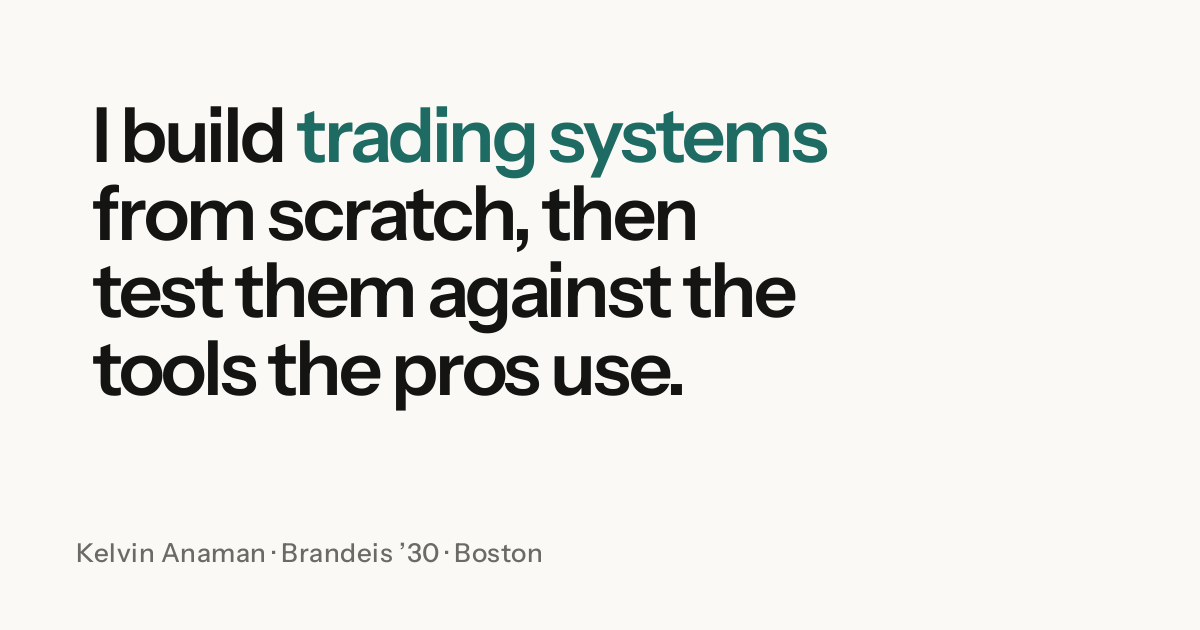
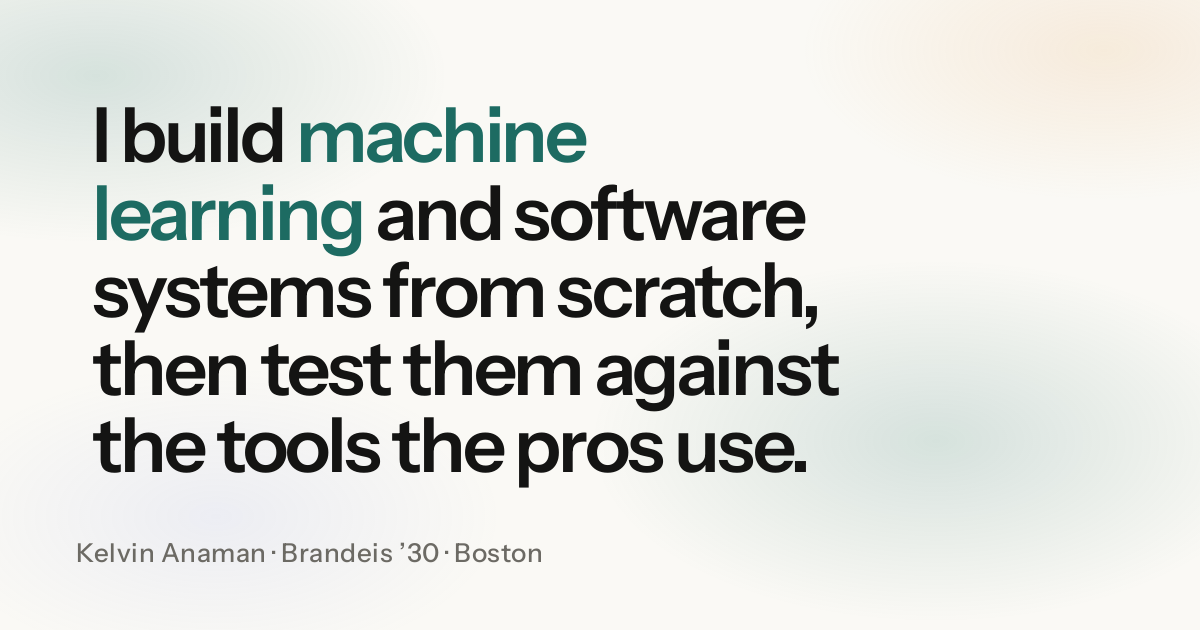
site: machine learning and software engineering lead

Changed region(s): [[0.0617, 0.1508, 0.8942, 0.8143], [0.0, 0.0302, 0.185, 0.2111], [0.8942, 0.0603, 0.925, 0.0905]]

diff --git a/index.html b/index.html
@@ -2,7 +2,7 @@
 <html lang="en">
 <head>
 <meta charset="utf-8">
-<meta http-equiv="Content-Security-Policy" content="default-src 'none'; script-src 'sha256-vEvKZrMhJJrsCAzyb3+XolhHF94AKOCTWLWjm1HHeUE='; style-src 'self' 'unsafe-inline' https://fonts.googleapis.com; font-src https://fonts.gstatic.com; img-src 'self' data:; media-src 'self'; connect-src https://api.github.com wss://advanced-trade-ws.coinbase.com; base-uri 'none'; form-action 'none'; object-src 'none'">
+<meta http-equiv="Content-Security-Policy" content="default-src 'none'; script-src 'sha256-t8ZcD9VdTclKdGf34t2W/fs2ITeBC9MadZGxUAhh/gM='; style-src 'self' 'unsafe-inline' https://fonts.googleapis.com; font-src https://fonts.gstatic.com; img-src 'self' data:; media-src 'self'; connect-src https://api.github.com wss://advanced-trade-ws.coinbase.com; base-uri 'none'; form-action 'none'; object-src 'none'">
 <meta name="referrer" content="strict-origin-when-cross-origin">
 <meta name="viewport" content="width=device-width, initial-scale=1, viewport-fit=cover">
 <meta name="theme-color" content="#faf9f5" media="(prefers-color-scheme: light)">
@@ -13,15 +13,15 @@
 <meta property="og:type" content="website">
 <meta property="og:site_name" content="Kelvin Anaman">
 <meta property="og:title" content="Kelvin Anaman">
-<meta property="og:description" content="Exchanges, option pricers and ML systems, built from scratch and measured against the tools professionals use.">
+<meta property="og:description" content="Machine learning and software systems, built from scratch and measured against the tools professionals use.">
 <meta property="og:url" content="https://anamankev.github.io/">
 <meta property="og:image" content="https://anamankev.github.io/img/og.png">
 <meta property="og:image:width" content="1200">
 <meta property="og:image:height" content="630">
-<meta property="og:image:alt" content="Kelvin Anaman: I build trading systems from scratch.">
+<meta property="og:image:alt" content="Kelvin Anaman: I build machine learning and software systems from scratch.">
 <meta name="twitter:card" content="summary_large_image">
 <title>Kelvin Anaman</title>
-<meta name="description" content="Kelvin Anaman studies quantitative economics, mathematics and computer science at Brandeis. He builds exchanges, option pricers and ML systems. Founder of Pulse Energies.">
+<meta name="description" content="Kelvin Anaman builds machine learning and software systems: recommenders, vector search, a crash-safe exchange and a trading terminal. Brandeis ’30, founder of Pulse Energies.">
 <link rel="preconnect" href="https://fonts.googleapis.com">
 <link rel="preconnect" href="https://fonts.gstatic.com" crossorigin>
 <link rel="stylesheet" href="https://fonts.googleapis.com/css2?family=Instrument+Sans:wght@400;500;600;700&family=IBM+Plex+Mono:wght@400;500;600&display=swap">
@@ -589,12 +589,12 @@ footer .base { grid-column: 1 / -1; display: flex; justify-content: space-betwee
   <div class="view" id="v-home">
     <div class="wrap">
       <section class="statement">
-        <h1>I build <span>trading systems</span> from scratch, then test them against the tools the pros use.</h1>
+        <h1>I build <span>machine learning</span> and software systems from scratch, then test them against the tools the pros use.</h1>
       </section>
       <section class="hero">
         <div>
           <div class="status"><i></i>Brandeis ’30 · Boston · Wien Scholar</div>
-          <p class="lede">I’m Kelvin Anaman. I study quantitative economics, math and CS at Brandeis. This summer I was a quant research intern on the Bank of Ghana’s GoldBod desk, and I run <a href="https://pulseenergies.com">Pulse Energies</a>, a grid forecasting startup.</p>
+          <p class="lede">I’m Kelvin Anaman. I study quantitative economics, math and CS at Brandeis, and I work across machine learning, software engineering and quantitative finance: recommenders and vector search, a crash-safe exchange in Rust, and a native trading terminal. I also run <a href="https://pulseenergies.com">Pulse Energies</a>, which forecasts grid load with machine learning, and this summer I was a quant research intern on the Bank of Ghana’s GoldBod desk.</p>
           <button class="cmdline" type="button" data-open-palette aria-label="Open the command line">
             <span class="prompt">&gt;</span>
             <span class="ph">Type a command, like <b>BRIER</b> or <b>EXP</b><span class="caret"></span></span>
@@ -602,7 +602,7 @@ footer .base { grid-column: 1 / -1; display: flex; justify-content: space-betwee
           </button>
           <div class="suggest"><span>This site runs on a command line, like my terminal Kestrel. Try</span>
             <button type="button" data-cmd="BRIER">BRIER</button>
-            <button type="button" data-cmd="BS">BS</button>
+            <button type="button" data-cmd="RECSYS">RECSYS</button>
             <button type="button" data-cmd="HNSW">HNSW</button>
             <button type="button" data-cmd="EXP">EXP</button>
           </div>
@@ -741,7 +741,7 @@ footer .base { grid-column: 1 / -1; display: flex; justify-content: space-betwee
         <div class="about-intro">
           <div>
             <p>I’m from Ghana and I live in Boston, where I study quantitative economics, mathematics and computer science at Brandeis as a Wien Scholar.</p>
-            <p>Most of my time goes into building things: trading systems, research code, and <a href="https://pulseenergies.com" style="color:var(--ink);text-decoration-color:var(--accent);text-underline-offset:3px">Pulse Energies</a>. I also love working with startup founders, building alongside them and advising them where I can.</p>
+            <p>Most of my time goes into building things: machine learning models, software systems, and <a href="https://pulseenergies.com" style="color:var(--ink);text-decoration-color:var(--accent);text-underline-offset:3px">Pulse Energies</a>. I also love working with startup founders, building alongside them and advising them where I can.</p>
             <div class="route-line" aria-label="From Ghana to Boston"><span class="flag" aria-hidden="true"><i></i><i></i><i></i><b>★</b></span><span>Ghana</span><span class="dash"></span><span>Boston</span></div>
           </div>
           <figure class="portrait"><img src="me.jpg" width="336" height="334" alt="Kelvin Anaman"></figure>
@@ -819,7 +819,7 @@ footer .base { grid-column: 1 / -1; display: flex; justify-content: space-betwee
 
 <footer>
   <div class="wrap">
-    <div><div class="fname">Kelvin Anaman</div><p style="margin:10px 0 0;max-width:26rem">Trading systems, research code and a grid forecasting startup. Brandeis ’30, Boston.</p></div>
+    <div><div class="fname">Kelvin Anaman</div><p style="margin:10px 0 0;max-width:26rem">Machine learning, software engineering and quantitative finance, plus a grid forecasting startup. Brandeis ’30, Boston.</p></div>
     <div><h4>Pages</h4><ul><li><a href="#experience">Experience</a></li><li><a href="#projects">Projects</a></li><li><a href="#writing">Writing</a></li><li><a href="#about">About</a></li><li><a href="#colophon">How this site is built</a></li></ul></div>
     <div><h4>Projects</h4><ul><li><a href="#brier">brier</a></li><li><a href="#hnsw-engine">hnsw-engine</a></li><li><a href="#options-pricing-engine">options-pricing-engine</a></li><li><a href="#kestrel">kestrel</a></li><li><a href="#two-stage-recsys">two-stage-recsys</a></li></ul></div>
     <div><h4>Contact</h4><ul><li><a href="mailto:kanaman@brandeis.edu">kanaman@brandeis.edu</a></li><li><a href="https://github.com/anamankev">GitHub</a></li><li><a href="https://www.linkedin.com/in/kelvin-anaman">LinkedIn</a></li></ul></div>
@@ -1045,20 +1045,22 @@ footer .base { grid-column: 1 / -1; display: flex; justify-content: space-betwee
   $("#ed").innerHTML =
     '<div class="ed-col">' + edProject(byId["kestrel"], true) + edPost(postById["killing-an-exchange"]) + '</div>' +
     '<div class="ed-col ed-center">' + edProject(byId["brier"], true, true) + '</div>' +
-    '<div class="ed-col">' + edPost(postById["ranker-made-it-worse"]) + edProject(byId["hnsw-engine"]) + edProject(byId["options-pricing-engine"]) + '</div>';
+    '<div class="ed-col">' + edPost(postById["ranker-made-it-worse"]) + edProject(byId["two-stage-recsys"]) + edProject(byId["hnsw-engine"]) + '</div>';
 
   /* home: focus areas, paged like a carousel */
   var GLYPH = {
     market: '<svg viewBox="0 0 48 48" fill="currentColor" aria-hidden="true"><rect x="6" y="8" width="16" height="5" rx="1"/><rect x="10" y="16" width="12" height="5" rx="1"/><rect x="14" y="24" width="8" height="5" rx="1"/><rect x="26" y="20" width="10" height="5" rx="1"/><rect x="26" y="28" width="16" height="5" rx="1"/><rect x="26" y="36" width="13" height="5" rx="1"/></svg>',
     search: '<svg viewBox="0 0 48 48" fill="none" stroke="currentColor" stroke-width="3" stroke-linecap="round" aria-hidden="true"><circle cx="10" cy="10" r="3.5" fill="currentColor"/><circle cx="36" cy="12" r="3.5" fill="currentColor"/><circle cx="22" cy="24" r="3.5" fill="currentColor"/><circle cx="10" cy="38" r="3.5" fill="currentColor"/><circle cx="38" cy="36" r="3.5" fill="currentColor"/><path d="M10 10L22 24L36 12M22 24L10 38M22 24L38 36"/></svg>',
     pricing: '<svg viewBox="0 0 48 48" fill="none" stroke="currentColor" stroke-width="3.2" stroke-linecap="round" aria-hidden="true"><path d="M5 40C18 39 24 34 30 22S38 8 43 7"/><path d="M5 40H43M5 8V40"/></svg>',
+    ml: '<svg viewBox="0 0 48 48" fill="none" stroke="currentColor" stroke-width="2.4" aria-hidden="true"><circle cx="8" cy="12" r="3.5" fill="currentColor"/><circle cx="8" cy="36" r="3.5" fill="currentColor"/><circle cx="24" cy="8" r="3.5" fill="currentColor"/><circle cx="24" cy="24" r="3.5" fill="currentColor"/><circle cx="24" cy="40" r="3.5" fill="currentColor"/><circle cx="40" cy="24" r="3.5" fill="currentColor"/><path d="M8 12L24 8M8 12L24 24M8 12L24 40M8 36L24 8M8 36L24 24M8 36L24 40M24 8L40 24M24 24L40 24M24 40L40 24"/></svg>',
+    systems: '<svg viewBox="0 0 48 48" fill="none" stroke="currentColor" stroke-width="3" stroke-linecap="round" stroke-linejoin="round" aria-hidden="true"><rect x="5" y="8" width="38" height="32" rx="4"/><path d="M13 19l6 5-6 5M23 30h11"/></svg>',
     energy: '<svg viewBox="0 0 48 48" fill="currentColor" aria-hidden="true"><path d="M27 3L9 27h12l-3 18 21-26H26z"/></svg>'
   };
   var AREAS = [
-    { g: "market", t: "Market structure", n: "2 projects", d: "Exchanges and terminals: matching engines, ledgers, order books and the tools traders use.", h: "#brier" },
-    { g: "search", t: "Search and ranking", n: "2 projects", d: "Vector search from the paper, and recommenders that retrieve through it and rank on top.", h: "#hnsw-engine" },
-    { g: "pricing", t: "Derivatives pricing", n: "1 project", d: "Option pricers checked against QuantLib, 50-digit arithmetic and published benchmarks.", h: "#options-pricing-engine" },
-    { g: "energy", t: "Energy forecasting", n: "Pulse Energies", d: "24-hour grid load forecasts with physical limits enforced on every forecast.", h: "https://pulseenergies.com" }
+    { g: "ml", t: "Machine learning", n: "1 project, 2 papers", d: "Two-tower retrieval with a learned ranker, research on LHC collision data and pyrolysis, and grid-load forecasting at Pulse Energies.", h: "#two-stage-recsys" },
+    { g: "systems", t: "Software engineering", n: "3 projects", d: "A crash-safe exchange in Rust, a native market terminal in SwiftUI, and a compiled vector search engine.", h: "#brier" },
+    { g: "search", t: "Search and retrieval", n: "2 projects", d: "Vector search built from the paper, serving the candidates a recommender then ranks.", h: "#hnsw-engine" },
+    { g: "pricing", t: "Quantitative finance", n: "1 project, 1 internship", d: "Option pricers checked against QuantLib, and FX and reserves modelling on the Bank of Ghana’s GoldBod desk.", h: "#options-pricing-engine" }
   ];
   var areasEl = $("#areas");
   areasEl.innerHTML = AREAS.map(function (a) { return '<a class="area" href="' + a.h + '"><div class="top">' + GLYPH[a.g] + '<div><h3>' + a.t + '</h3><div class="count">' + a.n + '</div></div></div><p>' + a.d + '</p></a>'; }).join("");
@@ -1075,7 +1077,7 @@ footer .base { grid-column: 1 / -1; display: flex; justify-content: space-betwee
   areasEl.addEventListener("scroll", function () { window.requestAnimationFrame(areaPos); });
   window.addEventListener("resize", areaPos);
   setTimeout(areaPos, 0);
-  $('[data-projects="all"]').innerHTML = P.map(pcard).join("");
+  $('[data-projects="all"]').innerHTML = ["brier", "two-stage-recsys", "hnsw-engine", "kestrel", "options-pricing-engine"].map(function (id) { return pcard(byId[id]); }).join("");
 
   var tabs = $$(".seg button");
   tabs.forEach(function (b) {
